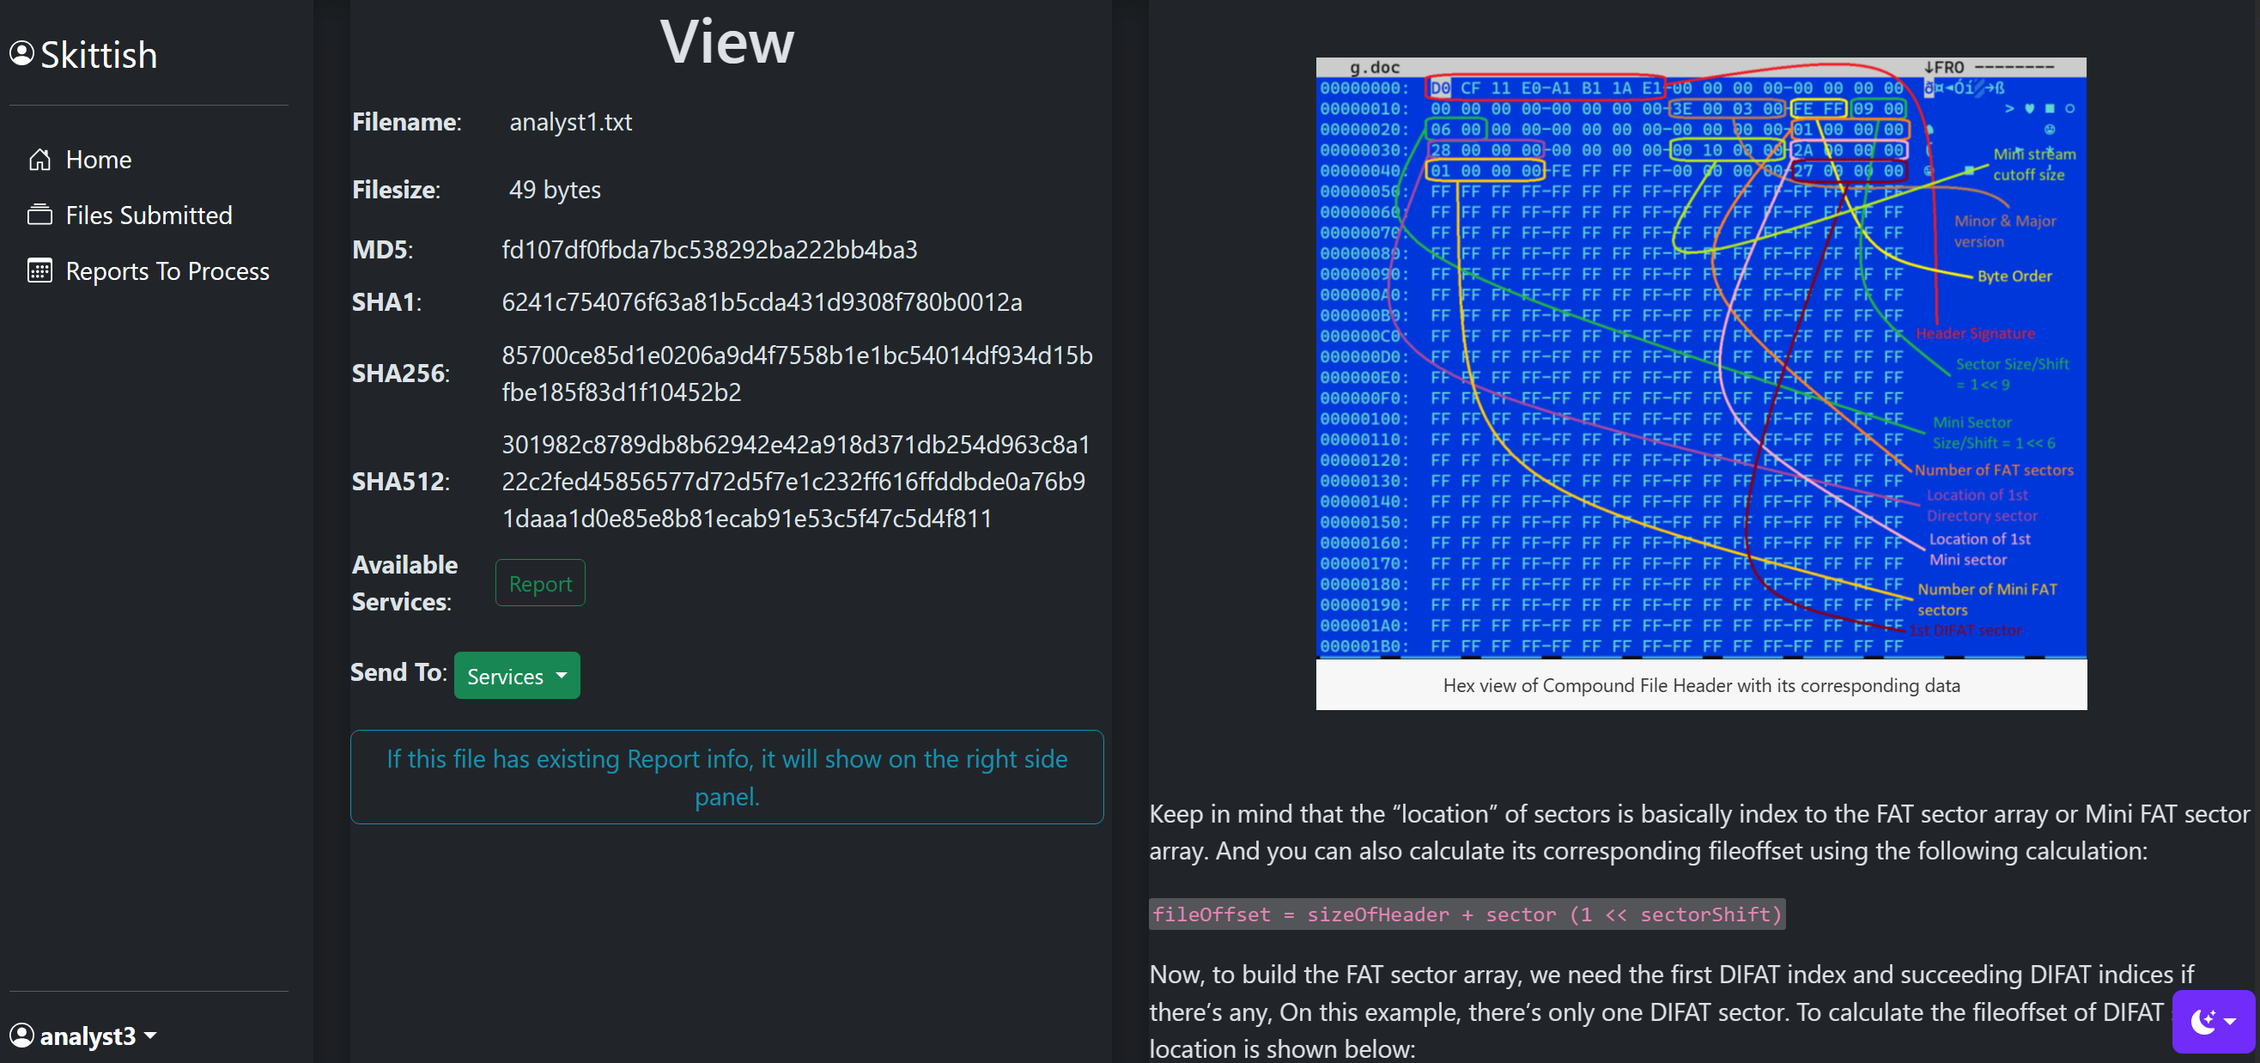
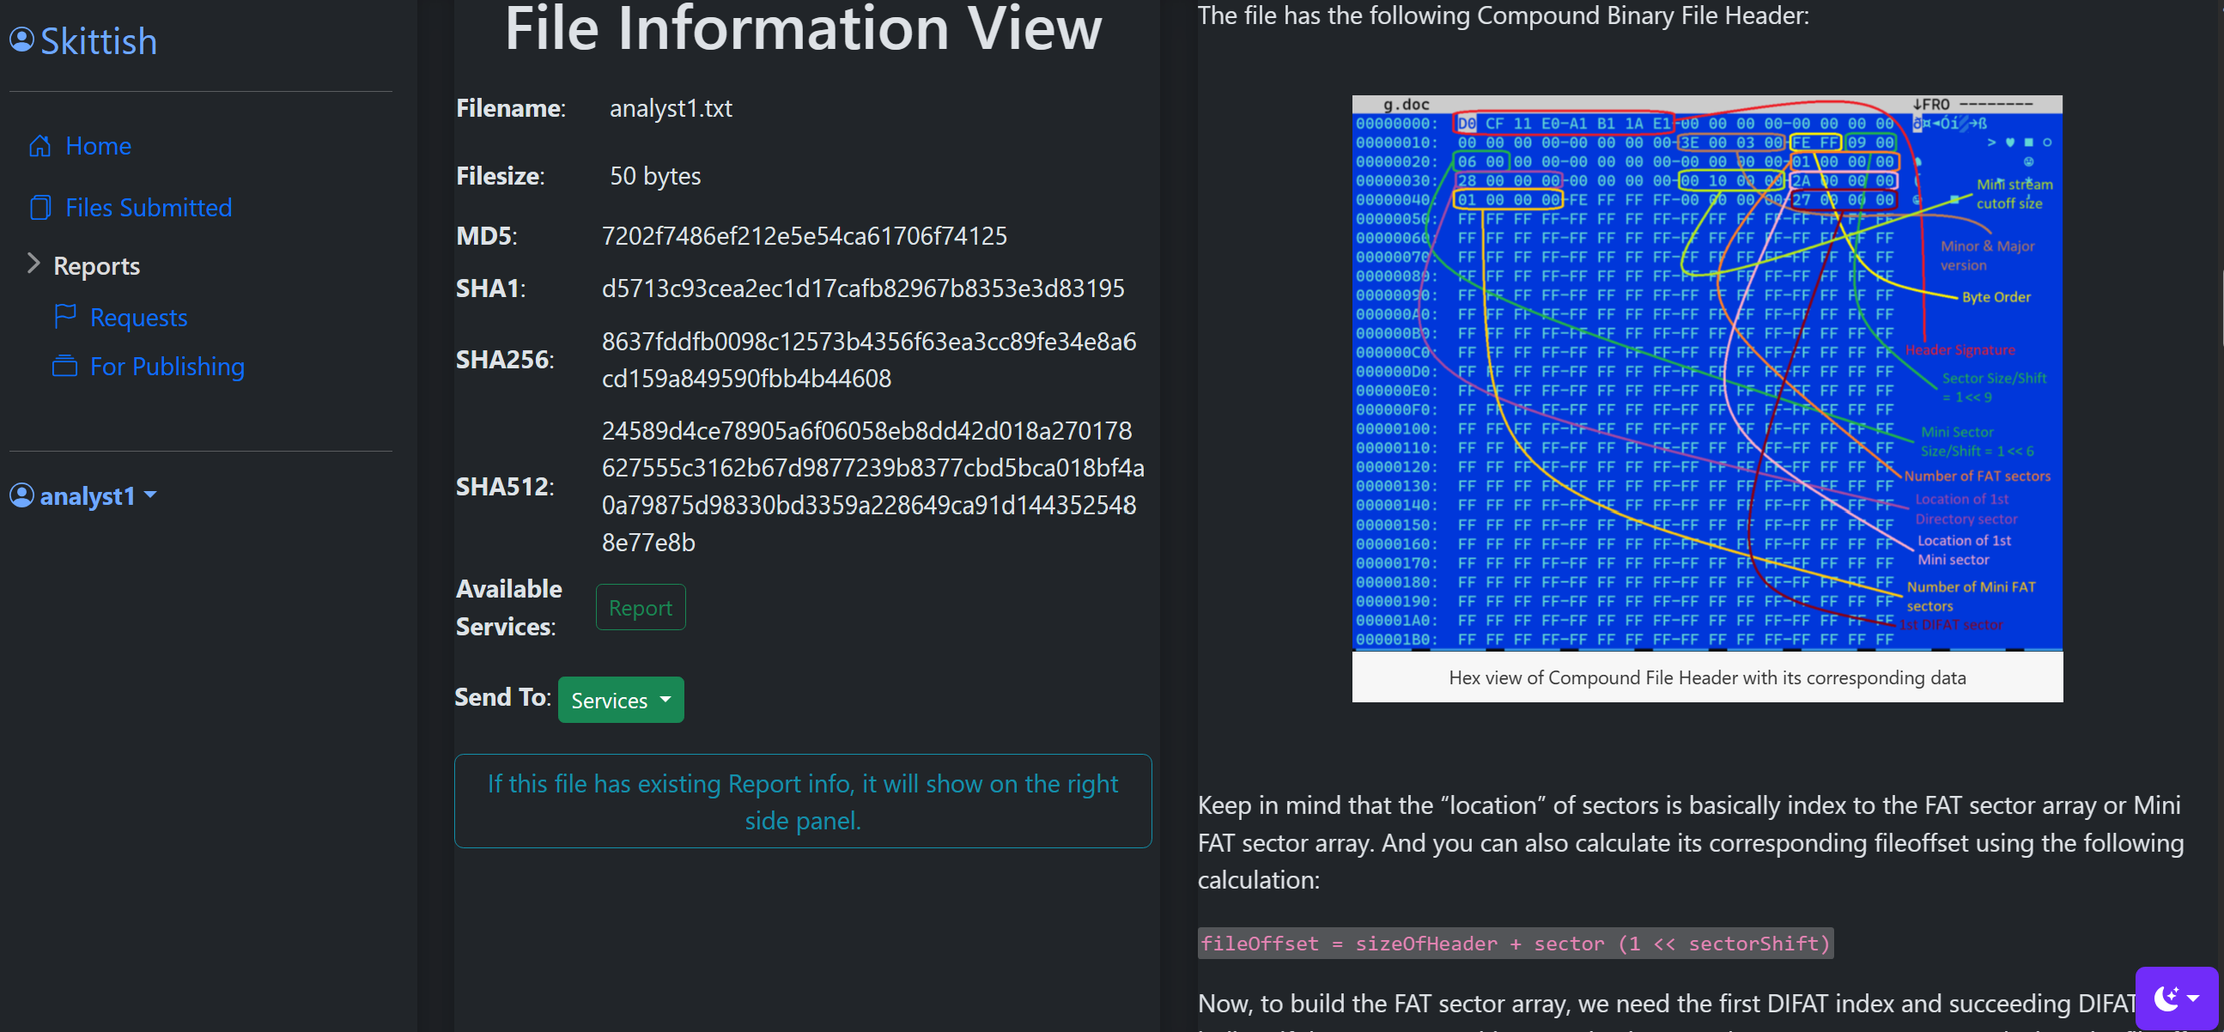
added Report process queueing

diff --git a/templates/base.html b/templates/base.html
@@ -200,41 +200,47 @@
       <symbol id="tools" viewBox="0 0 16 16">
         <path d="M1 0L0 1l2.2 3.081a1 1 0 0 0 .815.419h.07a1 1 0 0 1 .708.293l2.675 2.675-2.617 2.654A3.003 3.003 0 0 0 0 13a3 3 0 1 0 5.878-.851l2.654-2.617.968.968-.305.914a1 1 0 0 0 .242 1.023l3.356 3.356a1 1 0 0 0 1.414 0l1.586-1.586a1 1 0 0 0 0-1.414l-3.356-3.356a1 1 0 0 0-1.023-.242L10.5 9.5l-.96-.96 2.68-2.643A3.005 3.005 0 0 0 16 3c0-.269-.035-.53-.102-.777l-2.14 2.141L12 4l-.364-1.757L13.777.102a3 3 0 0 0-3.675 3.68L7.462 6.46 4.793 3.793a1 1 0 0 1-.293-.707v-.071a1 1 0 0 0-.419-.814L1 0zm9.646 10.646a.5.5 0 0 1 .708 0l3 3a.5.5 0 0 1-.708.708l-3-3a.5.5 0 0 1 0-.708zM3 11l.471.242.529.026.287.445.445.287.026.529L5 13l-.242.471-.026.529-.445.287-.287.445-.529.026L3 15l-.471-.242L2 14.732l-.287-.445L1.268 14l-.026-.529L1 13l.242-.471.026-.529.445-.287.287-.445.529-.026L3 11z"/>
       </symbol>
+      <symbol id="files" viewBox="0 0 16 16">
+        <path d="M13 0H6a2 2 0 0 0-2 2 2 2 0 0 0-2 2v10a2 2 0 0 0 2 2h7a2 2 0 0 0 2-2 2 2 0 0 0 2-2V2a2 2 0 0 0-2-2zm0 13V4a2 2 0 0 0-2-2H5a1 1 0 0 1 1-1h7a1 1 0 0 1 1 1v10a1 1 0 0 1-1 1zM3 4a1 1 0 0 1 1-1h7a1 1 0 0 1 1 1v10a1 1 0 0 1-1 1H4a1 1 0 0 1-1-1V4z"/>
+      </symbol>
+      <symbol id="flag" viewBox="0 0 16 16">
+        <path d="M14.778.085A.5.5 0 0 1 15 .5V8a.5.5 0 0 1-.314.464L14.5 8l.186.464-.003.001-.006.003-.023.009a12.435 12.435 0 0 1-.397.15c-.264.095-.631.223-1.047.35-.816.252-1.879.523-2.71.523-.847 0-1.548-.28-2.158-.525l-.028-.01C7.68 8.71 7.14 8.5 6.5 8.5c-.7 0-1.638.23-2.437.477A19.626 19.626 0 0 0 3 9.342V15.5a.5.5 0 0 1-1 0V.5a.5.5 0 0 1 1 0v.282c.226-.079.496-.17.79-.26C4.606.272 5.67 0 6.5 0c.84 0 1.524.277 2.121.519l.043.018C9.286.788 9.828 1 10.5 1c.7 0 1.638-.23 2.437-.477a19.587 19.587 0 0 0 1.349-.476l.019-.007.004-.002h.001M14 1.221c-.22.078-.48.167-.766.255-.81.252-1.872.523-2.734.523-.886 0-1.592-.286-2.203-.534l-.008-.003C7.662 1.21 7.139 1 6.5 1c-.669 0-1.606.229-2.415.478A21.294 21.294 0 0 0 3 1.845v6.433c.22-.078.48-.167.766-.255C4.576 7.77 5.638 7.5 6.5 7.5c.847 0 1.548.28 2.158.525l.028.01C9.32 8.29 9.86 8.5 10.5 8.5c.668 0 1.606-.229 2.415-.478A21.317 21.317 0 0 0 14 7.655V1.222z"/>
+      </symbol>
     </svg>
     <!----------------->
     <!-- Sidebar Menu -->
     <main class="d-flex nowrap">
-      <div class="d-flex flex-column flex-shrink-0 p-3 text-bg-dark" >
-        <a href="/" class="d-flex align-items-center mb-3 mb-md-0 me-md-auto text-white text-decoration-none">
+      <div class="d-flex flex-column flex-shrink-0 p-3 text-white bg-dark" style="width: 280px;">
+        <a href="/" class="d-flex align-items-center mb-3 mb-md-0 me-md-auto text-decoration-none">
           <!-- <svg class="bi pe-none me-1" width="40" height="32"><use xlink:href="#bootstrap"/></svg> -->
           <svg class="bi pe-none me-1" width="16" height="16"><use xlink:href="#people-circle"/></svg>
           <span class="fs-4">Skittish</span>
         </a>
         <hr>
-        <ul id="menu" class="nav nav-pills flex-column mb-auto">
-          <li class="nav-item align-items-center">
-            <a href="{{url_for('root.index')}}" role="button" class="btn btn-outline-primary text-white" style="--bs-btn-border-color: none">
+        <ul class="list-unstyled ps-0">
+          <li class="mb-1">
+            <a href="{{url_for('root.index')}}" role="button" class="btn btn-outline-primary" style="--bs-btn-border-color: none">
               <svg class="bi pe-none me-1" width="16" height="16"><use xlink:href="#home"/></svg>
               Home
             </a>
           </li>
           {% if not current_user.is_authenticated %}
-          <li>
-            <a href="{{url_for('login.index')}}" role="button" class="btn btn-outline-primary text-white" style="--bs-btn-border-color: none">
+          <li class="mb-1">
+            <a href="{{url_for('login.index')}}" role="button" class="btn btn-outline-primary" style="--bs-btn-border-color: none">
               <svg class="bi pe-none me-1" width="16" height="16"><use xlink:href="#people-circle"/></svg>
               Login
             </a>
           </li>
-          <li>
-            <a href="{{url_for('signup.index')}}" role="button" class="btn btn-outline-primary text-white" style="--bs-btn-border-color: none">
+          <li class="mb-1">
+            <a href="{{url_for('signup.index')}}" role="button" class="btn btn-outline-primary" style="--bs-btn-border-color: none">
               <svg class="bi pe-none me-1" width="16" height="16"><use xlink:href="#chat-quote-fill"/></svg>
               Signup
             </a>
           </li>
           {% else %}
-          <li>
-            <a href="{{url_for('file.index')}}" role="button" class="btn btn-outline-primary text-white" style="--bs-btn-border-color: none">
-              <svg class="bi pe-none me-1" width="16" height="16"><use xlink:href="#collection"/></svg>
+          <li class="mb-1">
+            <a href="{{url_for('file.index')}}" role="button" class="btn btn-outline-primary" style="--bs-btn-border-color: none">
+              <svg class="bi pe-none me-1" width="16" height="16"><use xlink:href="#files"/></svg>
               Files Submitted
             </a>
           </li>
@@ -243,11 +249,27 @@
           {% do roles.append(r.name) %}
           {% endfor %}
           {% if 'reporter' in roles or 'admin' in roles %}
-          <li>
-            <a href="{{url_for('file.report_index')}}" role="button" class="btn btn-outline-primary text-white" style="--bs-btn-border-color: none">
-              <svg class="bi pe-none me-1" width="16" height="16"><use xlink:href="#calendar3"/></svg>
-              Reports To Process
-            </a>
+          <li class="mb-1">
+            <button class="btn btn-toggle btn-primary align-items-center collapsed" 
+            data-bs-toggle="collapse" data-bs-target="#reports-collapse" aria-expanded="true" style="--bs-btn-border-color: none">
+              Reports
+            </button>
+            <div class="collapse show" id="reports-collapse">
+              <ul class="btn-toggle-nav list-unstyled fw-normal pb-1">
+                <li>
+                  <a href="/report/requests" role="button" class="btn btn-outline-primary link" style="--bs-btn-border-color: none">
+                    <svg class="bi pe-none me-1" width="16" height="16"><use xlink:href="#flag"/></svg>
+                    Requests
+                  </a>
+                </li>
+                <li>
+                  <a href="/report/publishing" role="button" class="btn btn-outline-primary link" style="--bs-btn-border-color: none">
+                    <svg class="bi pe-none me-1" width="16" height="16"><use xlink:href="#collection"/></svg>
+                    For Publishing
+                  </a>
+                </li>
+              </ul>
+            </div>
           </li>
           {% endif %}
           {% endif %}
@@ -255,7 +277,7 @@
         <hr>
         {% if current_user.is_authenticated %}
         <div class="dropdown">
-          <a href="#" class="d-flex align-items-center text-white text-decoration-none dropdown-toggle" data-bs-toggle="dropdown" aria-expanded="false">
+          <a href="#" class="d-flex align-items-center text-decoration-none dropdown-toggle" data-bs-toggle="dropdown" aria-expanded="false">
             <!-- <img src="https://github.com/mdo.png" alt="" width="32" height="32" class="rounded-circle me-1"> -->
             <svg class="bi pe-none me-1" width="16" height="16"><use xlink:href="#people-circle"/></svg>
             <strong>{{current_user.name}}</strong>

diff --git a/templates/report.html b/templates/report.html
@@ -6,7 +6,9 @@
     <!-- Alert Messages -->
     {% include "alert.html" %}
   </div>
-  {% if is_table %} {# This is to display Report that does not have ownership yet #}
+  {% if is_table %} 
+  {# This is to display Table owned by current_user #}
+  {# And Table that does not have ownership yet #}
   <div class="container-fluid justify-content-md-center">
     <div class="text-center">
       <h1>Reports</h1>
@@ -41,14 +43,14 @@
     <nav aria-label="Report pagination Top">
       <ul class="pagination">
         {% if table.has_prev %}
-        <li class="page-item"><a class="page-link" href="/report/{{table.page-1}}">Previous</a></li>
+        <li class="page-item"><a class="page-link" href="/report/{{search_method}}/{{table.page-1}}">Previous</a></li>
         {% else %}
         <li class="page-item disabled"><a class="page-link" href="#">Previous</a></li>
         {% endif %}
         {% for page in table.iter_pages() %}
           {% if page %}
             {% if page != table.page %}
-              <li class="page-item"><a class="page-link" href="/report/{{page}}">{{page}}</a></li>
+              <li class="page-item"><a class="page-link" href="/report/{{search_method}}/{{page}}">{{page}}</a></li>
             {% else %}
               <li class="page-item active"><a class="page-link" href="#">{{page}}</a></li>
             {% endif %}
@@ -57,7 +59,7 @@
           {% endif %}
         {% endfor %}
         {% if table.has_next %}
-        <li class="page-item"><a class="page-link" href="/report/{{table.page+1}}">Next</a></li>
+        <li class="page-item"><a class="page-link" href="/report/{{search_method}}/{{table.page+1}}">Next</a></li>
         {% else %}
         <li class="page-item disabled"><a class="page-link" href="#">Next</a></li>
         {% endif %}
@@ -68,9 +70,9 @@
           <ul class="dropdown-menu">
             {% for i in range(5) %}
                 {% if i == 0 %}
-                <li><a class="dropdown-item" href="/report/1/{{i+1}}">{{i+1}} Item per page</a></li>
+                <li><a class="dropdown-item" href="/report/{{search_method}}/1/{{i+1}}">{{i+1}} Item per page</a></li>
                 {% else %}
-                <li><a class="dropdown-item" href="/report/1/{{i+1}}">{{i+1}} Items per page</a></li>
+                <li><a class="dropdown-item" href="/report/{{search_method}}/1/{{i+1}}">{{i+1}} Items per page</a></li>
                 {% endif %}
               {% endfor %}
           </ul>
@@ -88,6 +90,7 @@
           <th>Id</th>
           <th>SHA256</th>
           <th>Requested By</th>
+          <th>Owned By</th>
           <th>Upload Date</th>        
           <th>Last Modified Date</th>
           <th>Action</th>
@@ -100,10 +103,15 @@
           <td>{{report.id}}</td>
           <td class="tbltdEllipsis"><a href="/report/view/{{report.id}}">{{report.sha256}}</a></td>
           <td>{{report.requested_by}}</td>
+          <td>{{report.owned_by}}</td>
           <td>{{report.created_date}}</td>
           <td>{{report.modified_date}}</td>
           <td>
+            {% if not report.owned_by %}
             <a href="/report/ownership/{{report.id}}" class="btn btn-sm btn-primary">Take Ownership</a>
+            {% else %}
+
+            {% endif %}
           </td>
         </tr>
         {% endfor %}
@@ -112,14 +120,14 @@
     <nav aria-label="Report pagination Bottom">
       <ul class="pagination">
         {% if table.has_prev %}
-        <li class="page-item"><a class="page-link" href="/report/{{table.page-1}}">Previous</a></li>
+        <li class="page-item"><a class="page-link" href="/report/{{search_method}}/{{table.page-1}}">Previous</a></li>
         {% else %}
         <li class="page-item disabled"><a class="page-link" href="#">Previous</a></li>
         {% endif %}
         {% for page in table.iter_pages() %}
           {% if page %}
             {% if page != table.page %}
-              <li class="page-item"><a class="page-link" href="/report/{{page}}">{{page}}</a></li>
+              <li class="page-item"><a class="page-link" href="/report/{{search_method}}/{{page}}">{{page}}</a></li>
             {% else %}
               <li class="page-item active"><a class="page-link" href="#">{{page}}</a></li>
             {% endif %}
@@ -128,7 +136,7 @@
           {% endif %}
         {% endfor %}
         {% if table.has_next %}
-        <li class="page-item"><a class="page-link" href="/report/{{table.page+1}}">Next</a></li>
+        <li class="page-item"><a class="page-link" href="/report/{{search_method}}/{{table.page+1}}">Next</a></li>
         {% else %}
         <li class="page-item disabled"><a class="page-link" href="#">Next</a></li>
         {% endif %}

diff --git a/routes/search.py b/routes/search.py
@@ -1,3 +1,4 @@
+from flask import request
 from sqlalchemy.orm import load_only
 from ..models import *
 from flask_login import current_user
@@ -82,33 +83,58 @@ def search_files(search_form, page, user_id):
     return results
 
 
-def search_reports(search_form, page):
+def search_reports(search_form, page, search_method):
     results = []
     search_data = search_form.search.data
     service = Service.query.filter_by(name='Report').first()
     if not search_data:
         search_data = 'all'
     if search_data.upper() in ['ALL', '*']:
-        # search for reports that is not owned yet
-        results = Report.query.filter_by(
-            owned_by=None, service_id=service.id
-            ).order_by(Report.created_date.desc()
-                       ).paginate(page=page,
-                                  per_page=search_form.item_per_page.data, 
-                                  error_out=True, 
-                                  max_per_page=5)
+        if search_method == 'requests':
+            # search for reports that is not owned yet
+            results = Report.query.filter_by(
+                owned_by=None, service_id=service.id
+                ).order_by(Report.created_date.desc()
+                        ).paginate(page=page,
+                                    per_page=search_form.item_per_page.data, 
+                                    error_out=True, 
+                                    max_per_page=5)
+        elif search_method == 'publishing':
+            results = Report.query.filter_by(
+                owned_by=current_user.id, service_id=service.id
+                ).order_by(Report.created_date.desc()
+                        ).paginate(page=page,
+                                    per_page=search_form.item_per_page.data, 
+                                    error_out=True, 
+                                    max_per_page=5)
+
     
     else:
-        results = Report.query.filter_by(owned_by=None, service_id=service.id).filter(
-            Report.sha256.ilike("%"+search_data+"%")
-            ).paginate(page=page,
-                       per_page=search_form.item_per_page.data, 
-                       error_out=True, 
-                       max_per_page=5)
+        if search_method == 'requests':
+            results = Report.query.filter_by(owned_by=None, service_id=service.id).filter(
+                Report.sha256.ilike("%"+search_data+"%")
+                ).order_by(Report.created_date.desc()
+                           ).paginate(page=page,
+                                      per_page=search_form.item_per_page.data, 
+                                      error_out=True, 
+                                      max_per_page=5)
+        elif search_method == 'publishing':
+            results = Report.query.filter_by(owned_by=current_user.id, service_id=service.id).filter(
+                Report.sha256.ilike("%"+search_data+"%")
+                ).order_by(Report.created_date.desc()
+                           ).paginate(page=page,
+                                      per_page=search_form.item_per_page.data, 
+                                      error_out=True,
+                                      max_per_page=5)
+
 
     # change Requested By user_id by email address
     for report in results:
-        setattr(report, 'requested_by', User.query.filter_by(id=report.requested_by).first().email) 
+        if search_method == 'requests':
+            setattr(report, 'requested_by', User.query.filter_by(id=report.requested_by).first().email) 
+        elif search_method == 'publishing':
+            setattr(report, 'requested_by', User.query.filter_by(id=report.requested_by).first().email) 
+            setattr(report, 'owned_by', User.query.filter_by(id=report.owned_by).first().email) 
 
     return results
 
@@ -122,6 +148,11 @@ def search(table_name, search_form, page_num=1):
     elif table_name == 'files':
         results = search_files(search_form, page_num, current_user.id)
     elif table_name == 'reports':
-        results = search_reports(search_form, page_num)
+        if request.path.startswith('/report/requests'):
+            results = search_reports(search_form, page_num, 'requests')
+        elif request.path.startswith('/report/publishing'):
+            results = search_reports(search_form, page_num, 'publishing')
+        else:
+            results = search_reports(search_form, page_num, 'requests')
 
     return results

diff --git a/routes/file.py b/routes/file.py
@@ -391,13 +391,17 @@ def file_post(action, id=None, per_page=0):
 ###          REPORT routes            ###
 #########################################
 @file_blueprint.route('/report', methods=['GET'])
-@file_blueprint.route('/report/search', methods=['POST'])
-@file_blueprint.route('/report/<int:page>/', methods=['GET'])
-@file_blueprint.route('/report/<int:page>/<int:item_per_page>', methods=['GET'])
+# @file_blueprint.route('/report/search', methods=['POST'])
+# @file_blueprint.route('/report/<int:page>/', methods=['GET'])
+# @file_blueprint.route('/report/<int:page>/<int:item_per_page>', methods=['GET'])
+@file_blueprint.route('/report/<regex("requests|publishing|search"):search_method>', methods=['GET', 'POST'])
+@file_blueprint.route('/report/<regex("requests|publishing|search"):search_method>/<int:page>', methods=['GET', 'POST'])
+@file_blueprint.route('/report/<regex("requests|publishing|search"):search_method>/<int:page>/<int:item_per_page>', methods=['GET', 'POST'])
 @login_required
-def report_index(page=None, item_per_page=None):
+def report_index(search_method='requests', page=None, item_per_page=None):
     search_form = SearchForm()
     report_form = ReportForm()
+    
     if 'submitter' in [r.name for r in current_user.roles] and len(current_user.roles) == 1:
         flash('This request is not allowed.', 'error')
         if request.referrer:
@@ -416,8 +420,7 @@ def report_index(page=None, item_per_page=None):
             search_form.search.data = '' 
             session['report_search'] = search_form.search.data
             search_form.item_per_page.data = 5
-            session['report_item_per_page'] = search_form.item_per_page.data
-            
+            session['report_item_per_page'] = search_form.item_per_page.data            
         
         if page == None:
             page = 1
@@ -463,6 +466,7 @@ def report_index(page=None, item_per_page=None):
                            form=search_form,
                            table=reports, 
                            is_table=True,
+                           search_method=search_method,
                            available_services=AVAILABLE_SERVICES,
                            action='show',
                            message=message,
@@ -491,8 +495,6 @@ def report_ownership(id):
 
     return redirect(url_for('file.report', action='edit', id=id))
     
-
-
                       
 @file_blueprint.route('/report/<regex("view|edit|download|search"):action>/<int:id>', methods=['GET'])
 @login_required

diff --git a/routes/signup.py b/routes/signup.py
@@ -45,7 +45,7 @@ def signup_post():
     resp = ('Successfully created the account.', 'message')
     try:
         # add default role (Analyst)
-        r = Role.query.filter_by(name='Analyst').first()
+        r = Role.query.filter_by(name='submitter').first()
         # add the new user to the database
         new_user.roles.append(r)
         db.session.add(new_user)

diff --git a/TODO.md b/TODO.md
@@ -1,4 +1,6 @@
 
+
+
 Future
 - refactor upload.js 
 - create more service APIs for file services e.g. /service/file/scan, /service/file/query_vt
